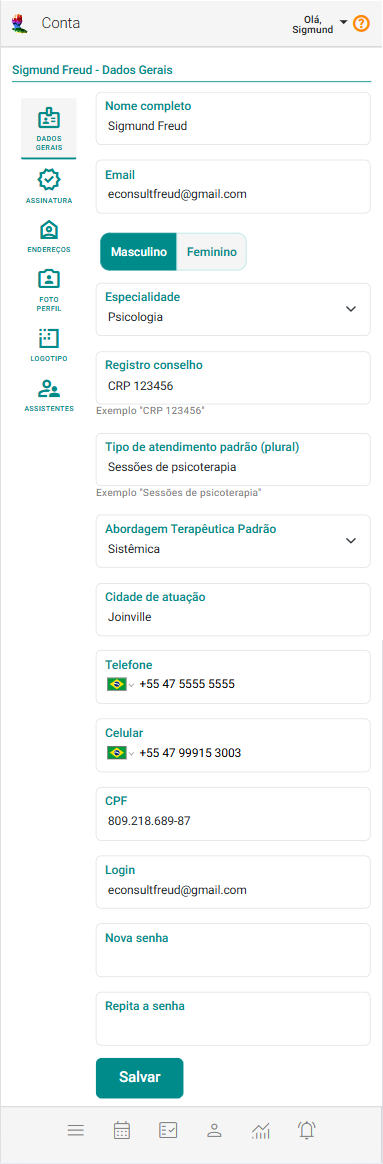
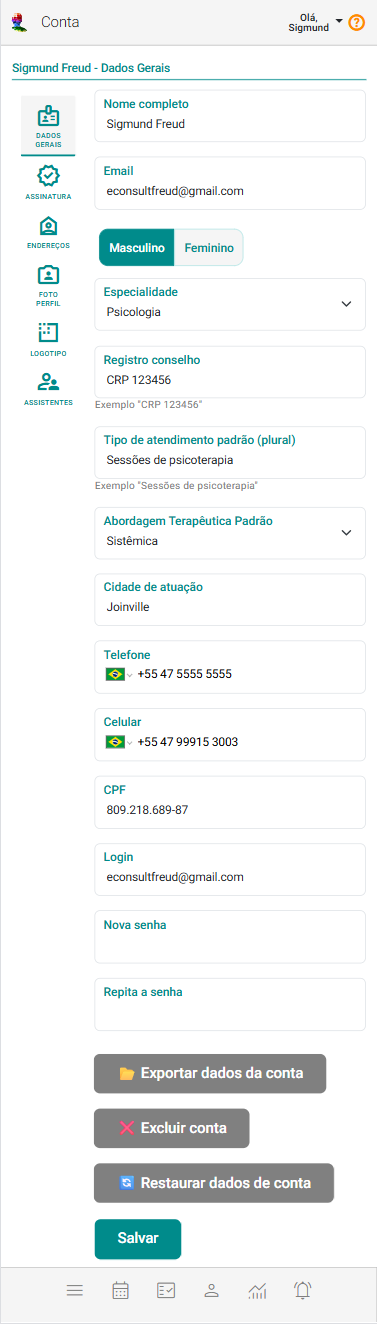
nilson

diff --git a/docs/06_iniciando/02_interface-navegacao/02_painel-inicial.md b/docs/06_iniciando/02_interface-navegacao/02_painel-inicial.md
@@ -19,9 +19,7 @@ O Painel Inicial exibe, primeiramente, alertas e informes importantes, destacand
 - **Anotação(ões) de realização pendente(s):** Mostra o número de anotações de realizado ou não realizado pendentes em atendimentos e tem link para o painel Alertas.
 - **Pagamento(s) em atraso:** Mostra o número de recebimentos pendentes e tem link para o painel Alertas.
 - **Cliente(s) ativo(s) sem e-mail, celular e/ou data de nascimento:** Mostra o número de cadasros de clientes ou grupos terapêuticos que não tem e-mails e/ou celular cadastrados.
-- **Exportar dados da conta:** Atalho para a tela que permite a exportação de todos os dados da sua conta (backup).
-- **Excluir conta:** Atalho para a tela que permite a exclusão da sua conta.
-- **Importar dados de conta:** Atalho para a tela que permite a importação de arquivo de dados de uma conta antiga.
+
 - **Sua conta:** Atalho para o Painel Conta.
 
 Além dos alertas e informações, o Painel Inicial oferece ainda atalhos rápidos para as principais funcionalidades do sistema. Esses atalhos foram projetados para facilitar a navegação e agilizar o acesso às ferramentas mais utilizadas, otimizando o fluxo de trabalho e a gestão das operações diárias.

diff --git a/docs/07_funcionalidades/00-conta/01_dados-gerais.md b/docs/07_funcionalidades/00-conta/01_dados-gerais.md
@@ -29,3 +29,18 @@ Para alteração de seus dados gerais, acesse a opção correspondente a **Dados
 - **Notificação de Mudanças:** Informe imediatamente qualquer mudança de telefone ou e-mail.
 - **Segurança dos Dados:** Utilize senhas fortes.
 :::
+
+:::note
+Você pode ainda, nofinal desta aba, acessar as opções:
+- [Exportar Dados da Conta](/docs/funcionalidades/conta/exportar-conta) 
+
+    ![Conta](../../../static/img/prints/buttons/exportar_dados_gerais_da_conta.png)
+
+- [Excluir Conta](/docs/funcionalidades/conta/excluir-conta) 
+
+    ![Conta](../../../static/img/prints/buttons/excluir_conta.png)
+
+- [Importar Dados de Conta](/docs/funcionalidades/conta/importar-conta) 
+
+    ![Conta](../../../static/img/prints/buttons/restaurar_dados_da_conta.png)
+:::

diff --git a/docs/07_funcionalidades/00-conta/09_importar-conta.md b/docs/07_funcionalidades/00-conta/09_importar-conta.md
@@ -6,6 +6,10 @@ sidebar_position: 9
 
 A tela de restauração de conta do sistema eConsult permite que o usuário recupere seus dados utilizando o arquivo de backup gerado anteriormente (arquivo eConsultData.json).
 
+Para acessar o painel **Importar Dados de Conta**, acione a opção correspondente ![Conta](../../../static/img/prints/buttons/restaurar_dados_da_conta.png) na aba Dados Gerais.
+
+    ![Conta](../../../static/img/prints/00_visao-conta-002.png)
+
 ### Orientações importantes
 
 - **Verificação do arquivo:** certifique-se de que o arquivo selecionado é realmente o backup correto da conta que deseja restaurar.

diff --git a/docs/07_funcionalidades/00-conta/07_exportar-conta.md b/docs/07_funcionalidades/00-conta/07_exportar-conta.md
@@ -8,6 +8,10 @@ A tela "Exportar dados" (JSON) permite que você gere um arquivo contendo todas 
 
 Esse arquivo é útil como backup completo do seu ambiente e pode ser utilizado futuramente para restaurar sua conta no sistema.
 
+Para acessar o painel **Exportar Dados da Conta**, acione a opção correspondente ![Conta](../../../static/img/prints/buttons/exportar_dados_gerais_da_conta.png) na aba Dados Gerais.
+
+    ![Conta](../../../static/img/prints/00_visao-conta-002.png)
+    
 ## O que é exportado?
 
 O arquivo gerado terá o formato eConsultData.json, legível por máquina e interoperável.

diff --git a/docs/07_funcionalidades/00-conta/08_excluir-conta.md b/docs/07_funcionalidades/00-conta/08_excluir-conta.md
@@ -6,6 +6,10 @@ sidebar_position: 8
 
 A tela de exclusão de conta do sistema eConsult é utilizada quando você deseja remover permanentemente sua conta e todos os dados associados.
 
+Para acessar o painel **Excluir Conta**, acione a opção correspondente ![Conta](../../../static/img/prints/buttons/excluir_conta.png) na aba Dados Gerais.
+
+    ![Conta](../../../static/img/prints/00_visao-conta-002.png)
+
 :::warning
 - A exclusão da conta é permanente e irreversível.
 
